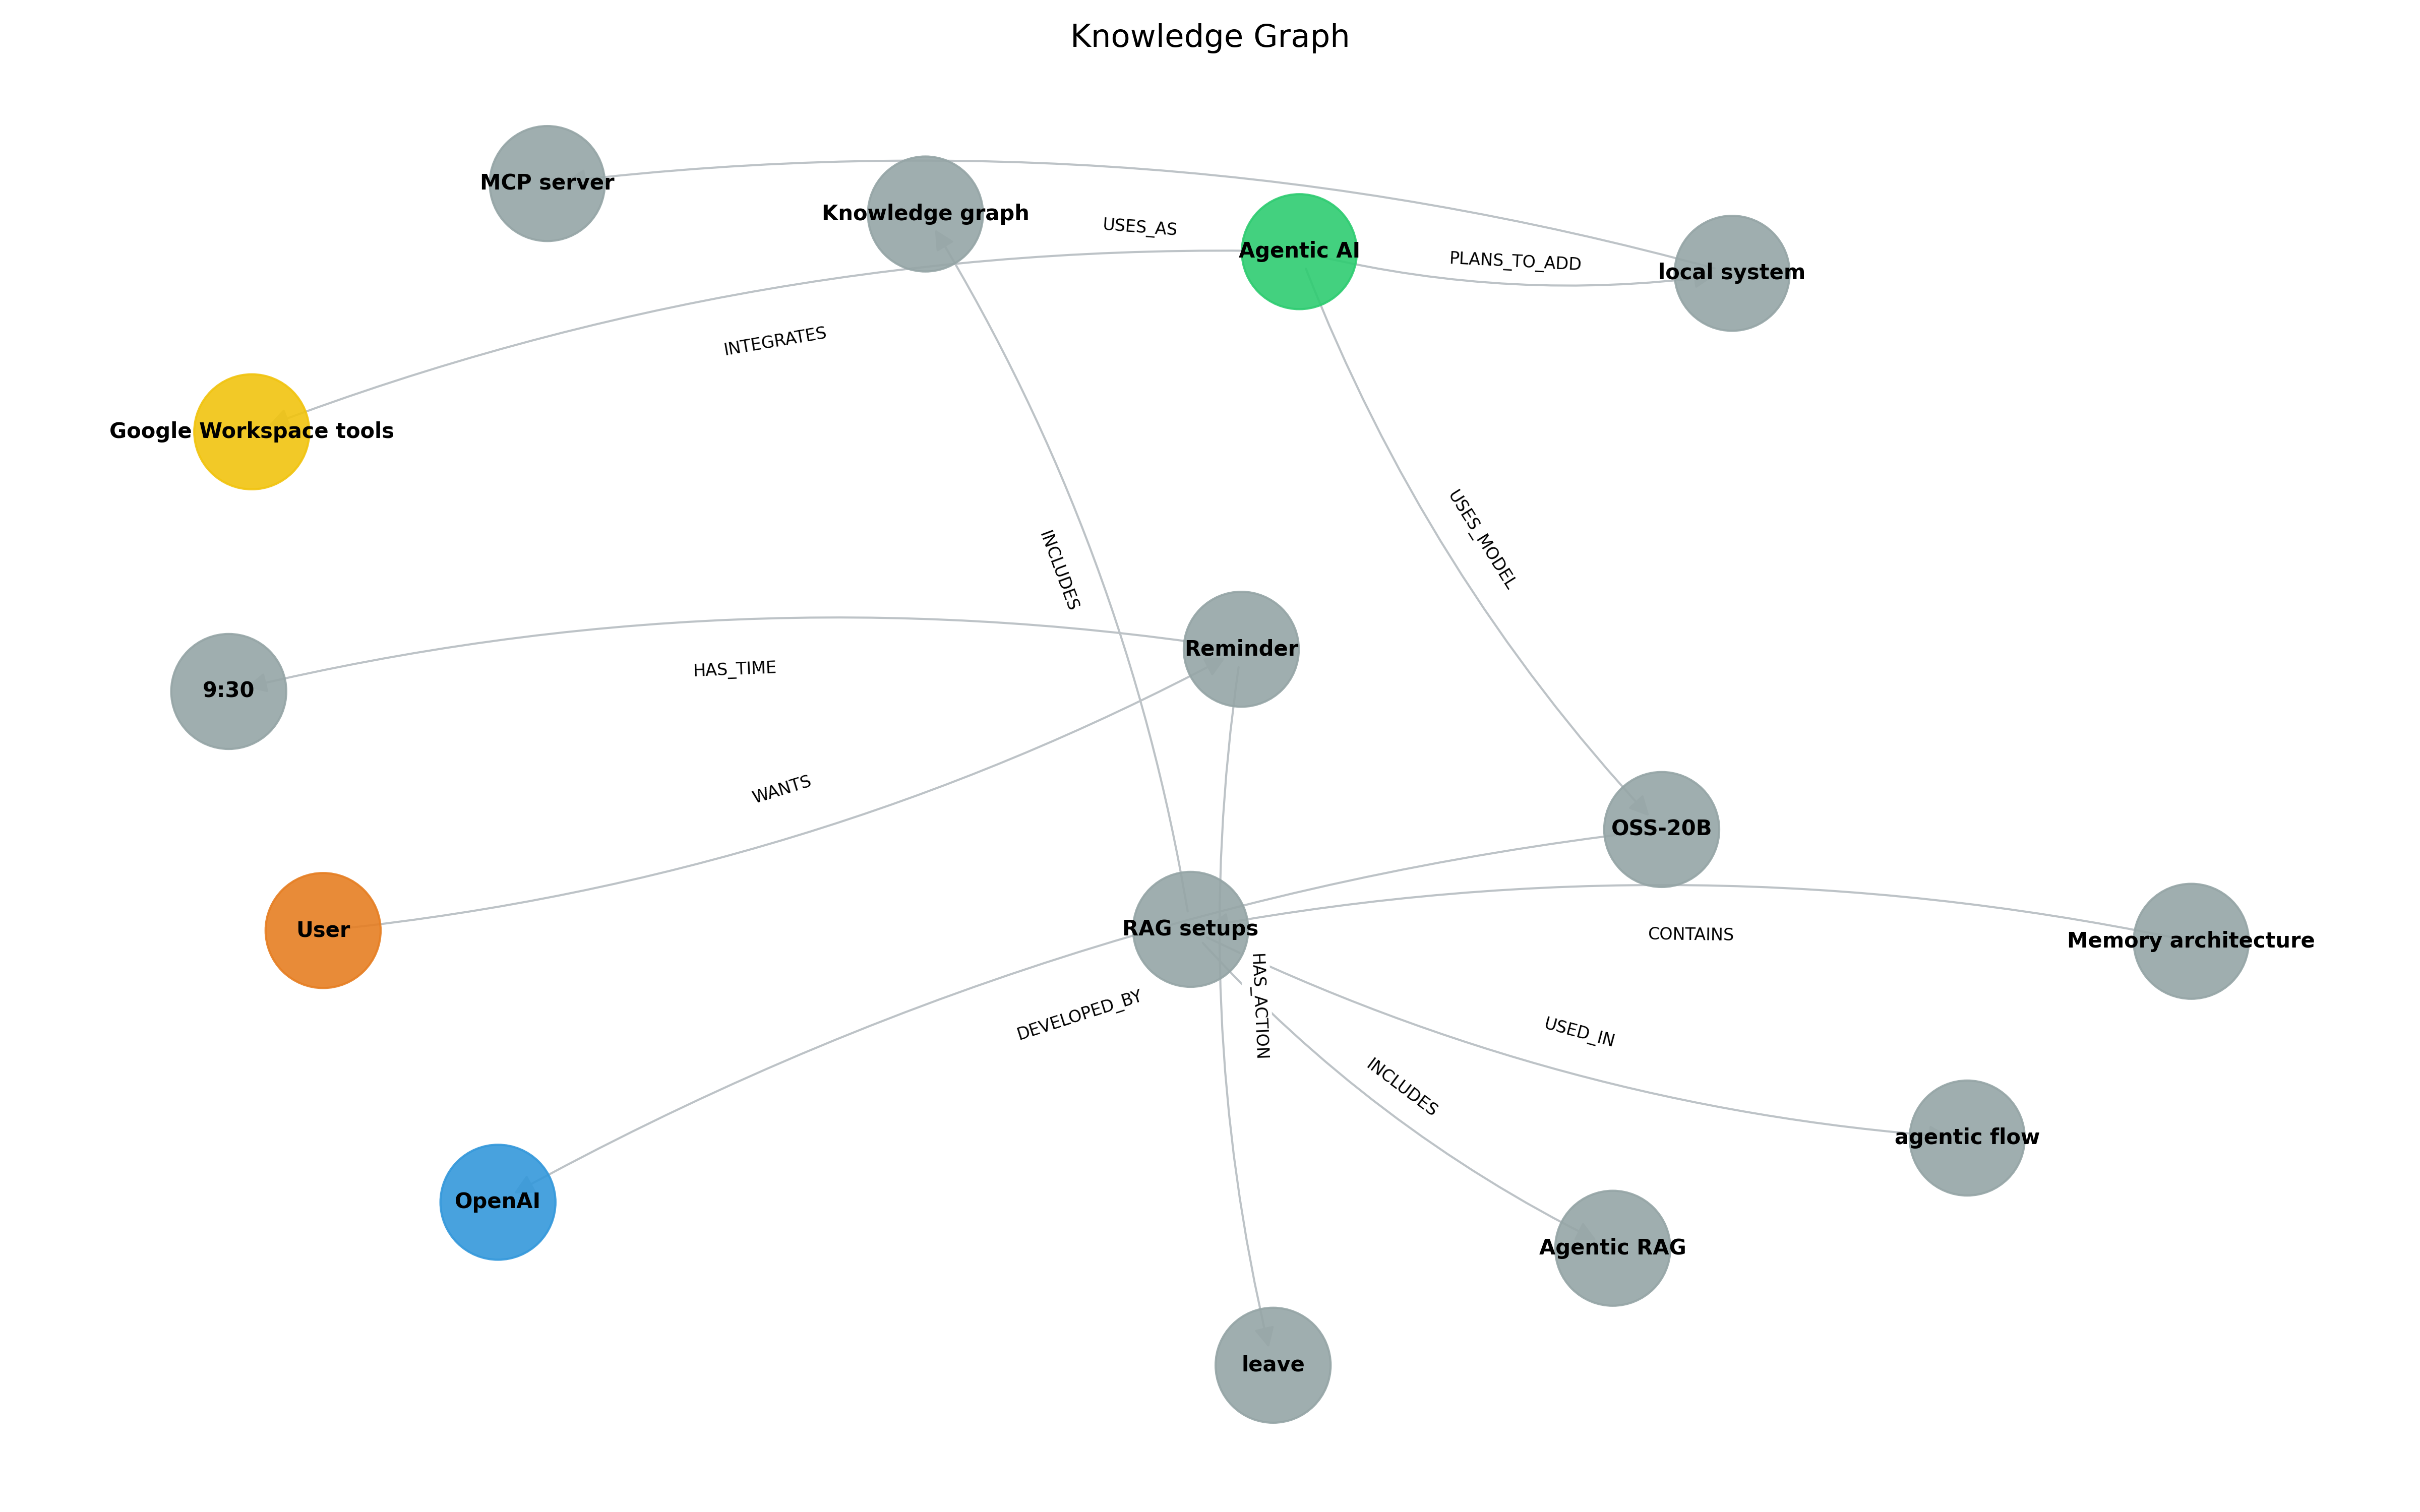
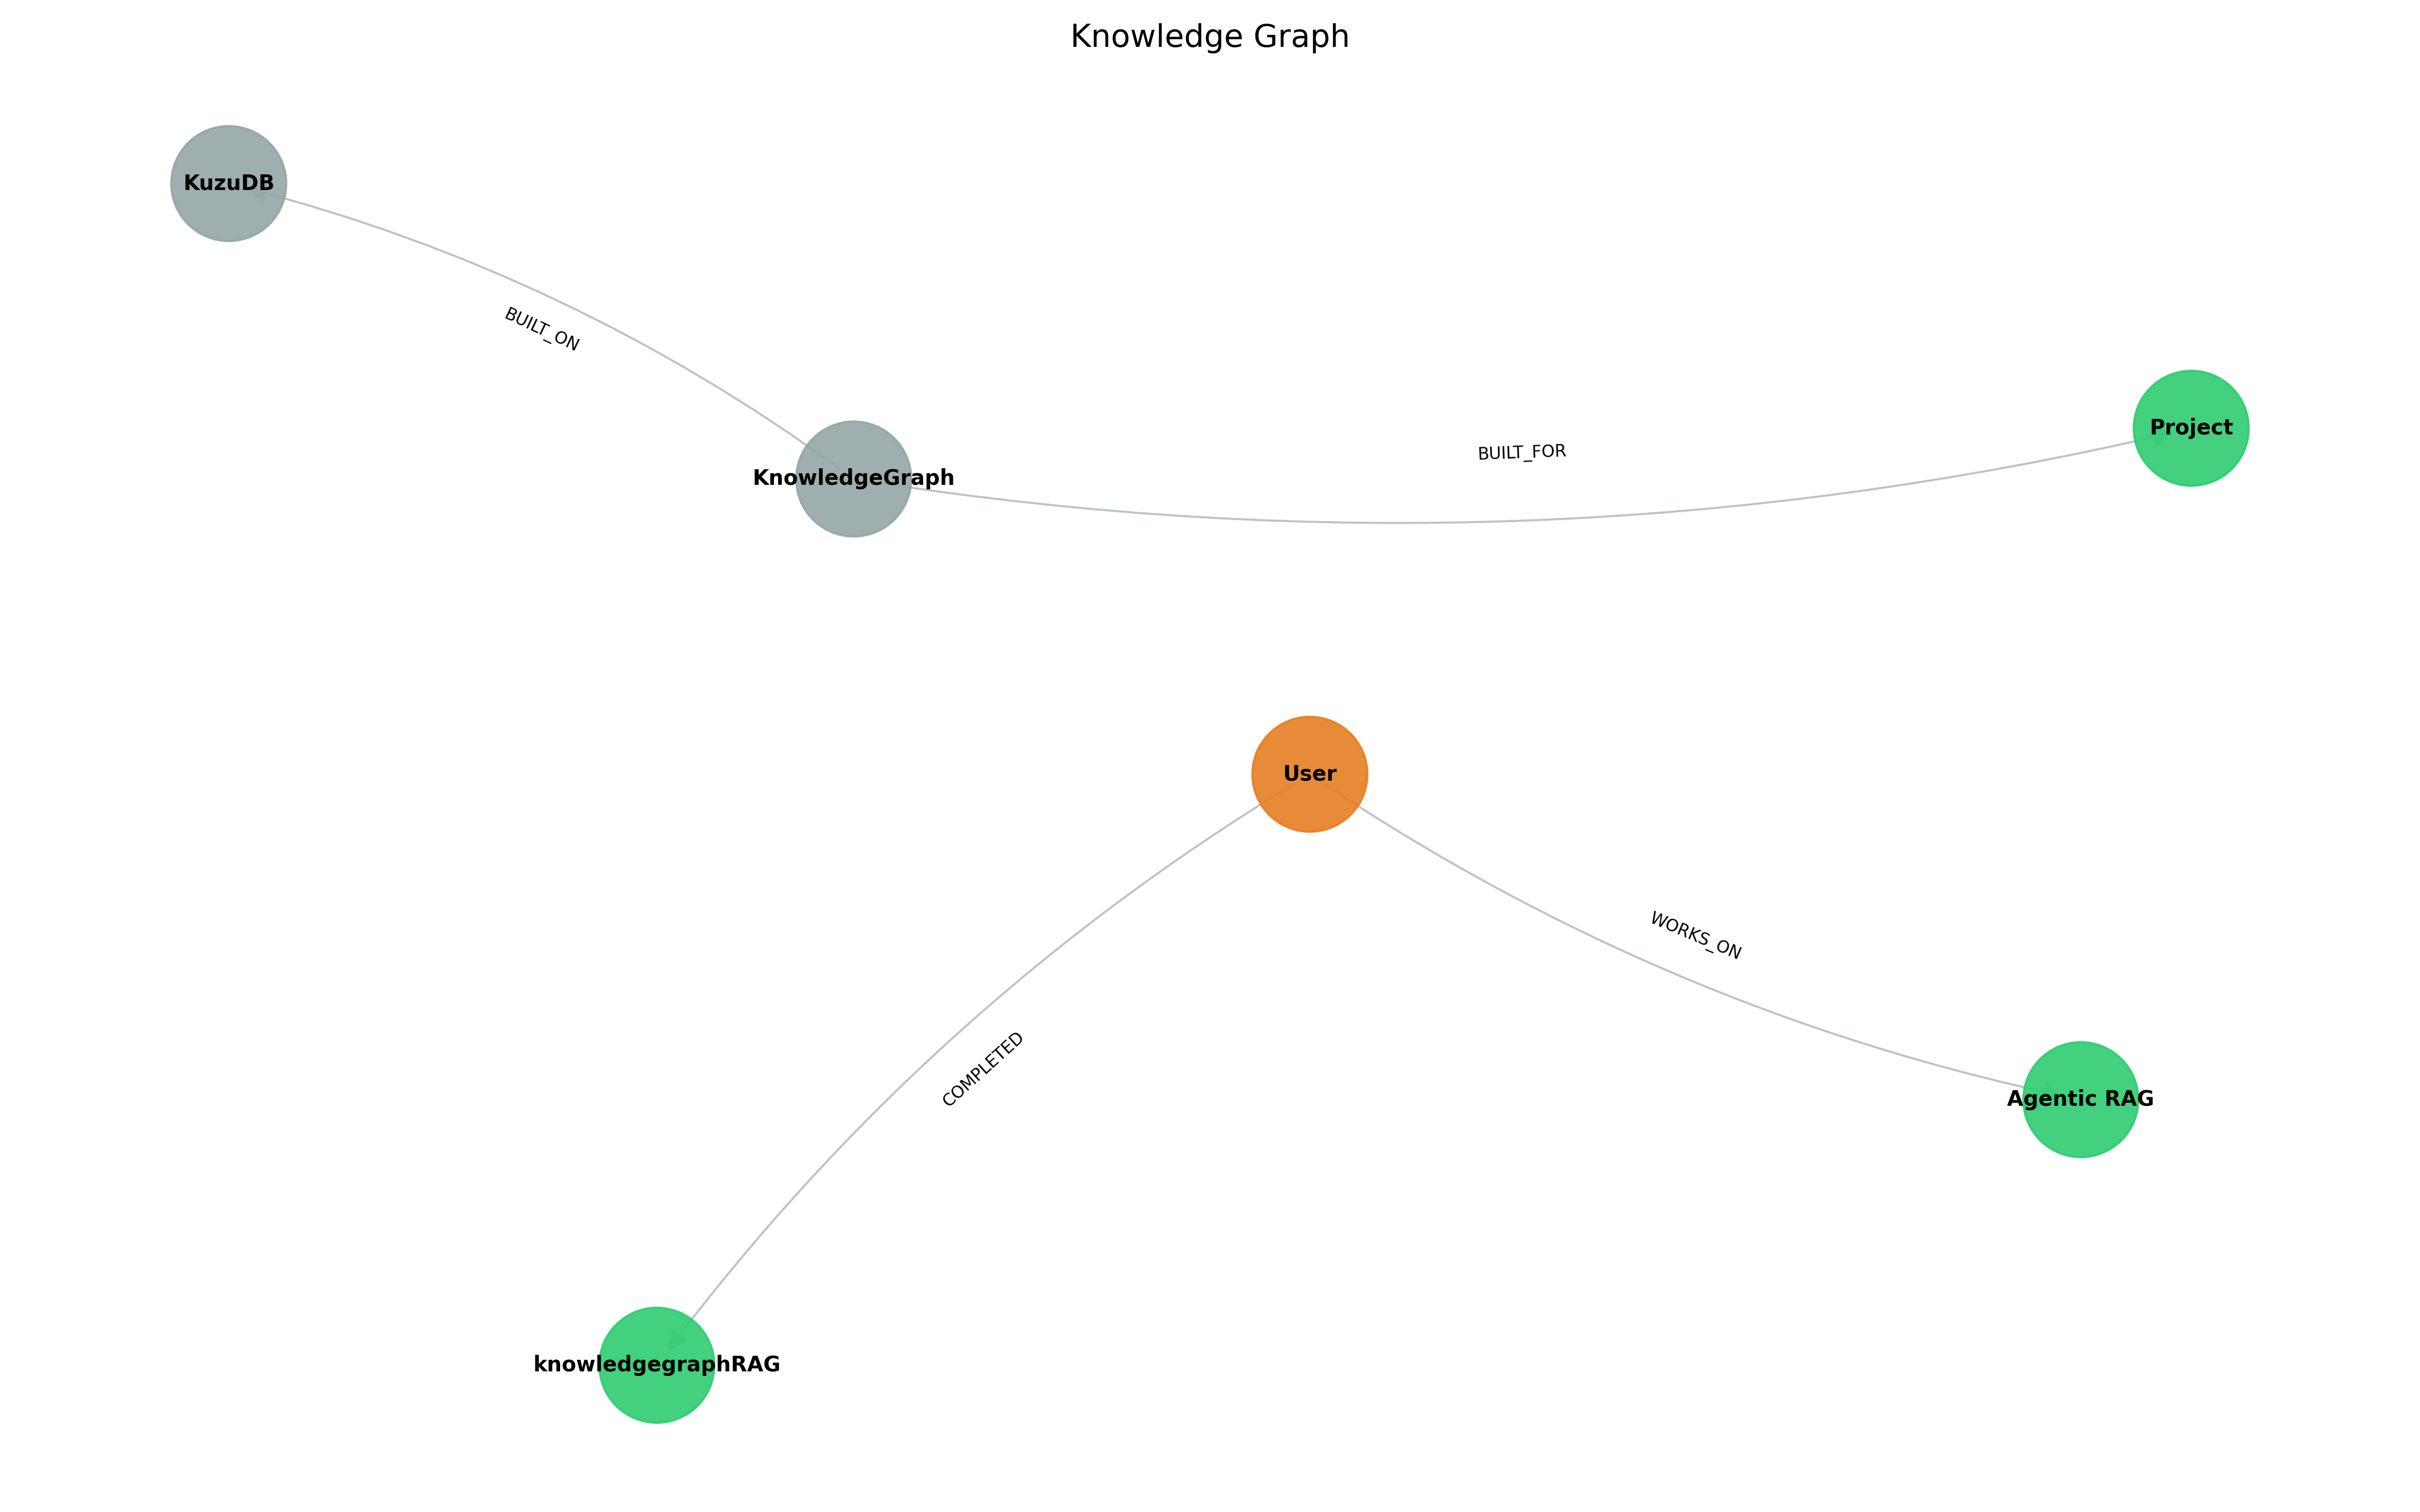
basic change on some variable initialization bugs and starting to work on the RAG

diff --git a/core/agent.py b/core/agent.py
@@ -139,8 +139,10 @@ def agent_node_factory(llm_with_tools, system_prompt, agent_name: str):
 
         logger.info("=" * 80)
 
-        if hasattr(msg, "tool_calls") and msg.tool_calls:  # prevent hallucination
-            msg.content = ""
+        # if (
+        #     hasattr(msg, "tool_calls") and msg.tool_calls
+        # ):  # i need to control what is being sent by this so that only important can be passed
+        #     msg.content = ""
 
         agent_message = AIMessage(
             content=final_content,

diff --git a/config/prompts.py b/config/prompts.py
@@ -1,6 +1,6 @@
 SUPERVISOR_SYSTEM_PROMPT = """You are Karen, Yadeesh's intelligent AI assistant coordinating specialized agents and providing direct assistance.
 
-### CURRENT TIME: {current_time}
+### Current Date: {current_time}
 
 ### YOUR ROLE:
 Personal AI assistant with a professional, efficient, boss-assistant dynamic. Anticipate needs, be proactive, and get things done.

diff --git a/utils/audit_manager.py b/utils/audit_manager.py
@@ -55,7 +55,7 @@ def analyze_human_logs(
         query = """
             SELECT thread_id, timestamp, actor, message, metadata 
             FROM human_logs 
-            ORDER BY timestamp ASC;
+            ORDER BY timestamp ASC
             LIMIT 30
         """
         cursor.execute(query)

diff --git a/app_mcp/tools/knowledgegraph_tools.py b/app_mcp/tools/knowledgegraph_tools.py
@@ -8,7 +8,6 @@ from utils.helper import setup_logger
 import logging
 
 logger = setup_logger(__name__)
-logger.setLevel(logging.INFO)
 
 _kg_instance = None
 